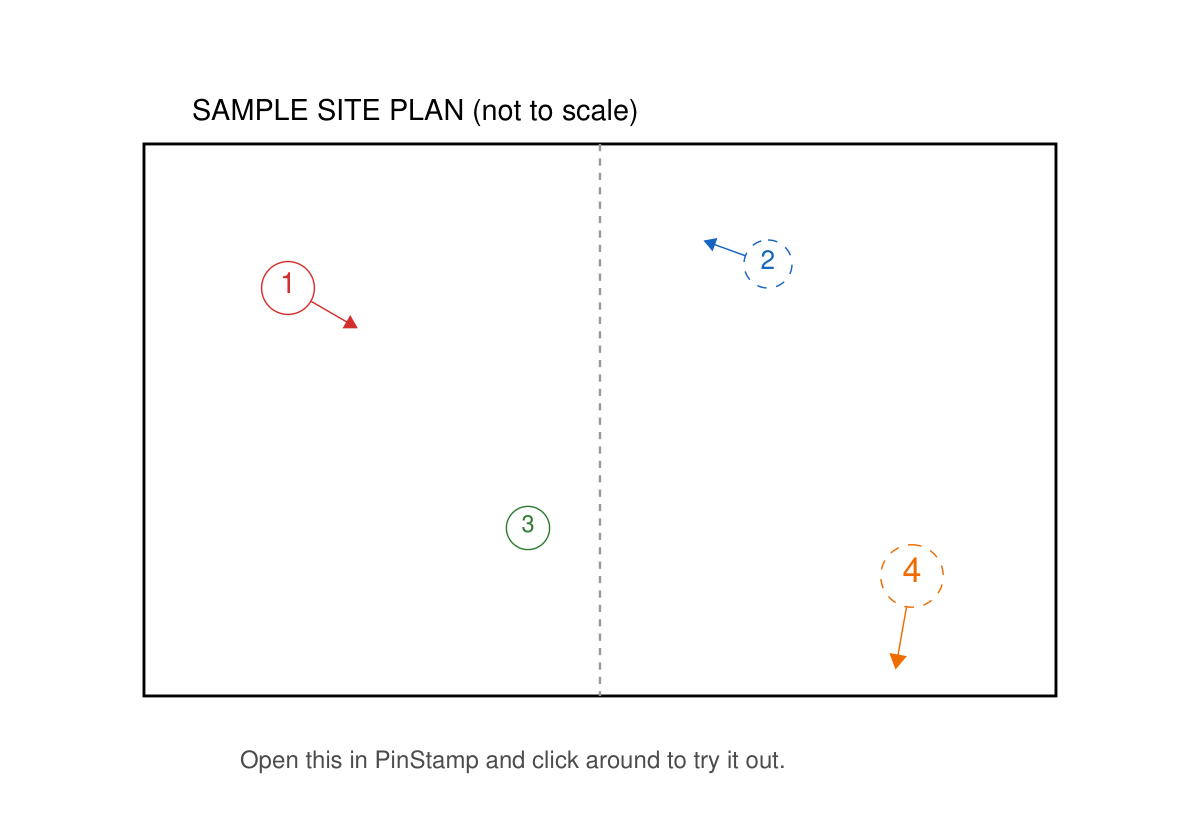
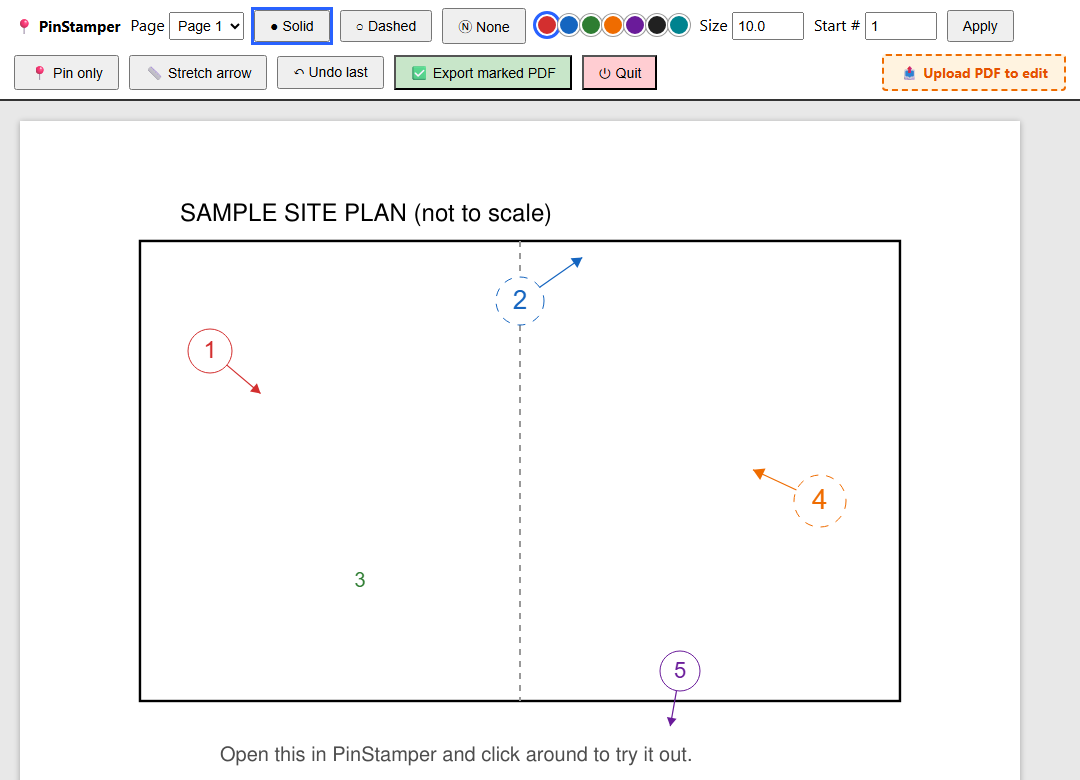
Expand README docs and refresh the screenshot
Add Requirements, upload-button, autosave/auto-shutdown, and
Troubleshooting sections; fix the outdated palette example. Replace the
screenshot with an actual capture of the running toolbar (previous one was
just the exported PDF), and fix a leftover "PinStamp" mention baked into
the bundled sample PDF's caption text.

diff --git a/README.md b/README.md
@@ -9,7 +9,7 @@ way") without a heavyweight CAD or PDF-editing suite.
 No auto-detection, no AI, no cloud — it's a precise, deliberate clicking
 tool that runs entirely on your machine.
 
-![PinStamper sample export: four colored pins with per-pin size, style, and arrows](docs/screenshot.png)
+![PinStamper toolbar and canvas: five pins across solid/dashed/no-border styles, per-pin color and size, and direction arrows, over a sample site plan](docs/screenshot.png)
 
 ## Why
 
@@ -28,9 +28,15 @@ PinStamper does neither:
   delete a mark afterward, the same as any PDF comment.
 - **Per-pin style.** Each pin has its own color (from a small built-in
   palette), size, and border style (solid/dashed/no circle at all), and an
-  optional direction
-  arrow whose angle and length can be re-aimed at any time after placement —
-  no need to delete and redo it.
+  optional direction arrow whose angle and length can be re-aimed at any
+  time after placement — no need to delete and redo it.
+
+## Requirements
+
+- Python 3.9+
+- [PyMuPDF](https://pymupdf.readthedocs.io/) (`pip install -r requirements.txt`)
+- Any modern browser (Chrome, Edge, Firefox) — the UI runs there, not in a
+  desktop window
 
 ## Quick start
 
@@ -44,6 +50,13 @@ with the PDF loaded. Try it immediately on the bundled sample:
 
 ```bash
 python -m pinstamp.core sample/sample-plan.pdf
+```
+
+Extra flags:
+
+```bash
+python -m pinstamp.core plan.pdf --port 9000     # use a different port
+python -m pinstamp.core plan.pdf --no-browser    # don't auto-open a browser tab
 ```
 
 ### Using it
@@ -61,9 +74,22 @@ python -m pinstamp.core sample/sample-plan.pdf
 - **↻ aim** (per pin, in the list) — re-aim or add an arrow to a pin you
   already placed: click it, move the mouse, click the canvas to confirm.
 - **⊘** removes a pin's arrow; **✕** deletes the pin entirely.
+- **📤 Upload PDF to edit** — the bold button in the top-right of the
+  toolbar swaps in a different PDF to mark up, without restarting the tool.
 - **Export marked PDF** writes `<name>_marked.pdf` next to your source file.
   Exporting never overwrites a previous export — repeated exports get
   `_marked_v2.pdf`, `_marked_v3.pdf`, and so on.
+- **⏻ Quit** shuts down the local server from the page itself — handy since
+  the packaged exe has no console to Ctrl+C.
+
+### Autosave and closing
+
+Every change is saved to the sidecar `.pinstamp.json` file within a fraction
+of a second — there's no explicit "save" step. The local server also watches
+for the browser tab: if it doesn't hear from the page for ~15 seconds (e.g.
+you closed the tab), it shuts itself down automatically so you don't end up
+with an orphaned background process. Simply run the command again (or
+double-click the exe) to resume.
 
 ## Packaging as a standalone .exe (Windows)
 
@@ -74,9 +100,9 @@ native "Open PDF" file picker.
 build.bat
 ```
 
-Produces `dist/PinStamper.exe` (via PyInstaller; onefile, ~50MB). First run may
-be flagged by Windows SmartScreen since the exe isn't code-signed — click
-"More info" → "Run anyway".
+Produces `dist/PinStamper.exe` (via PyInstaller; onefile, ~50MB). First run
+may be flagged by Windows SmartScreen since the exe isn't code-signed —
+click "More info" → "Run anyway".
 
 ## How it works
 
@@ -96,14 +122,30 @@ Colors live in a single list near the top of `pinstamp/core.py`:
 
 ```python
 PALETTE = [
-    ("Maroon", "#800000"),
     ("Red", "#d32f2f"),
-    ...
+    ("Blue", "#1565c0"),
+    ("Green", "#2e7d32"),
+    ("Orange", "#ef6c00"),
+    ("Purple", "#6a1b9a"),
+    ("Black", "#212121"),
+    ("Teal", "#00838f"),
 ]
 ```
 
 Edit, add, or remove entries to match your own house style — the browser UI
 and the exported PDF colors both read from this one list.
+
+## Troubleshooting
+
+- **Page won't load / connection refused** — the server auto-shuts-down
+  after ~15-35s if no browser tab ever connects to it (see
+  [Autosave and closing](#autosave-and-closing)). Just rerun the command; if
+  it still doesn't open, browse to the printed URL
+  (`http://127.0.0.1:8766/`) manually.
+- **Port already in use** — pass `--port <n>` to pick a different one, or
+  just rerun; `serve()` automatically scans the next 20 ports for a free one.
+- **SmartScreen warning on the exe** — expected for an unsigned binary;
+  click "More info" → "Run anyway".
 
 ## License
 